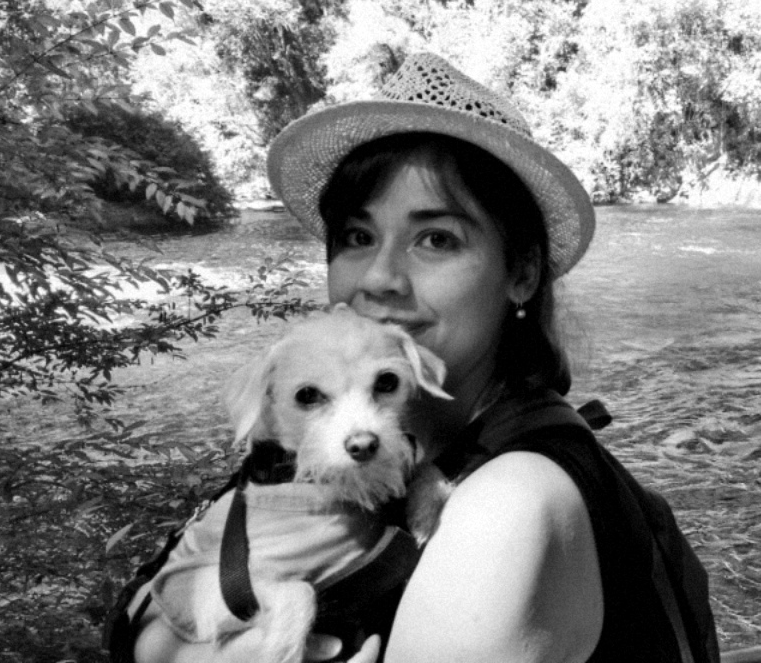
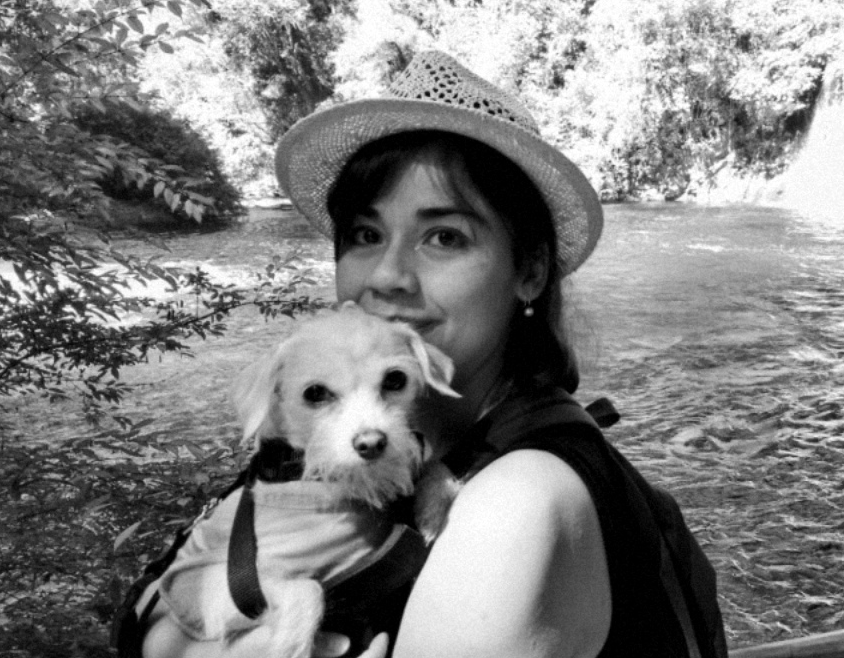
ajuste de imagen background

diff --git a/assets/css/style.css b/assets/css/style.css
@@ -67,7 +67,9 @@ p {
 /*hero-section*/
 .hero-section {
     height: 500px;
-    background-image: url("../img/nati.png");
+    background-image: url("../img/nati-01.png");
+    background-position: center center;
+    background-attachment: fixed;
     background-repeat: no-repeat;
     background-size: cover;
     color: #ffffff;
@@ -201,6 +203,7 @@ p {
 /*hero-section*/
     .hero-section {
         height: 737px;
+        background-image: url("../img/nati.png");
     }
     .texto-hero {
         padding-top: 520px;
@@ -232,7 +235,7 @@ p {
     }
 /*Herramientas*/
     #carousel-herramientas {
-    display: block;
+        display: block;
     }
     #carousel-bg {
         background-color: #51c0db7a !important;

diff --git a/index.html b/index.html
@@ -4,7 +4,7 @@
     <meta charset="UTF-8">
     <meta name="viewport" content="width=device-width, initial-scale=1.0">
     <title>Portafolio Natalia Jimenez</title>
-    <link rel="shortcut icon" type="image/png" href="favicon-32x32.png"/>
+    <link rel="shortcut icon" type="image/png" href="favicon.ico"/>
     <link rel="stylesheet" href="https://stackpath.bootstrapcdn.com/bootstrap/4.5.0/css/bootstrap.min.css"
     integrity="sha384-9aIt2nRpC12Uk9gS9baDl411NQApFmC26EwAOH8WgZl5MYYxFfc+NcPb1dKGj7Sk" crossorigin="anonymous">
     <link href="https://fonts.googleapis.com/css2?family=Open+Sans:wght@300;400;600&family=Oswald:wght@200;400;600;700&display=swap" rel="stylesheet">
